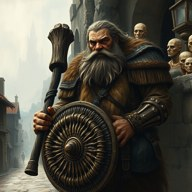
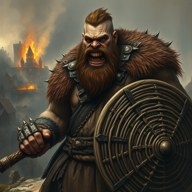
Redraw the Giant portrait

diff --git a/content.py b/content.py
@@ -153,7 +153,7 @@ COMMONERS = [
 
 # attacks: (name, to-hit bonus or None, damage dice or None, note). Attack buttons roll these.
 NPCS = {
-    "giant_club": dict(portrait="a huge bearded hill giant in furs and leather holding a tree-trunk club and a big round wicker shield, a big rough man with a wild beard, ruined town street", shield=True, name="Giant", fig="rpg_CYCLOP", hp=60, defense=12, attacks=[
+    "giant_club": dict(portrait="a huge brutish hill giant warrior in ragged furs and iron-studded leather, gripping a tree-trunk club and a big round wicker shield, wild matted beard, snarling, burning town behind", shield=True, name="Giant", fig="rpg_CYCLOP", hp=60, defense=12, attacks=[
         ("Club smash", 7, "2d8+4", "melee, reach 2"),
         ("Stomp", None, "1d8", "all adjacent: Agility DC 13 or take it and fall prone"),
     ], notes="WICKER SHIELD: ranged attacks against it get -5 unless the shield is burned. Moves 8."),
